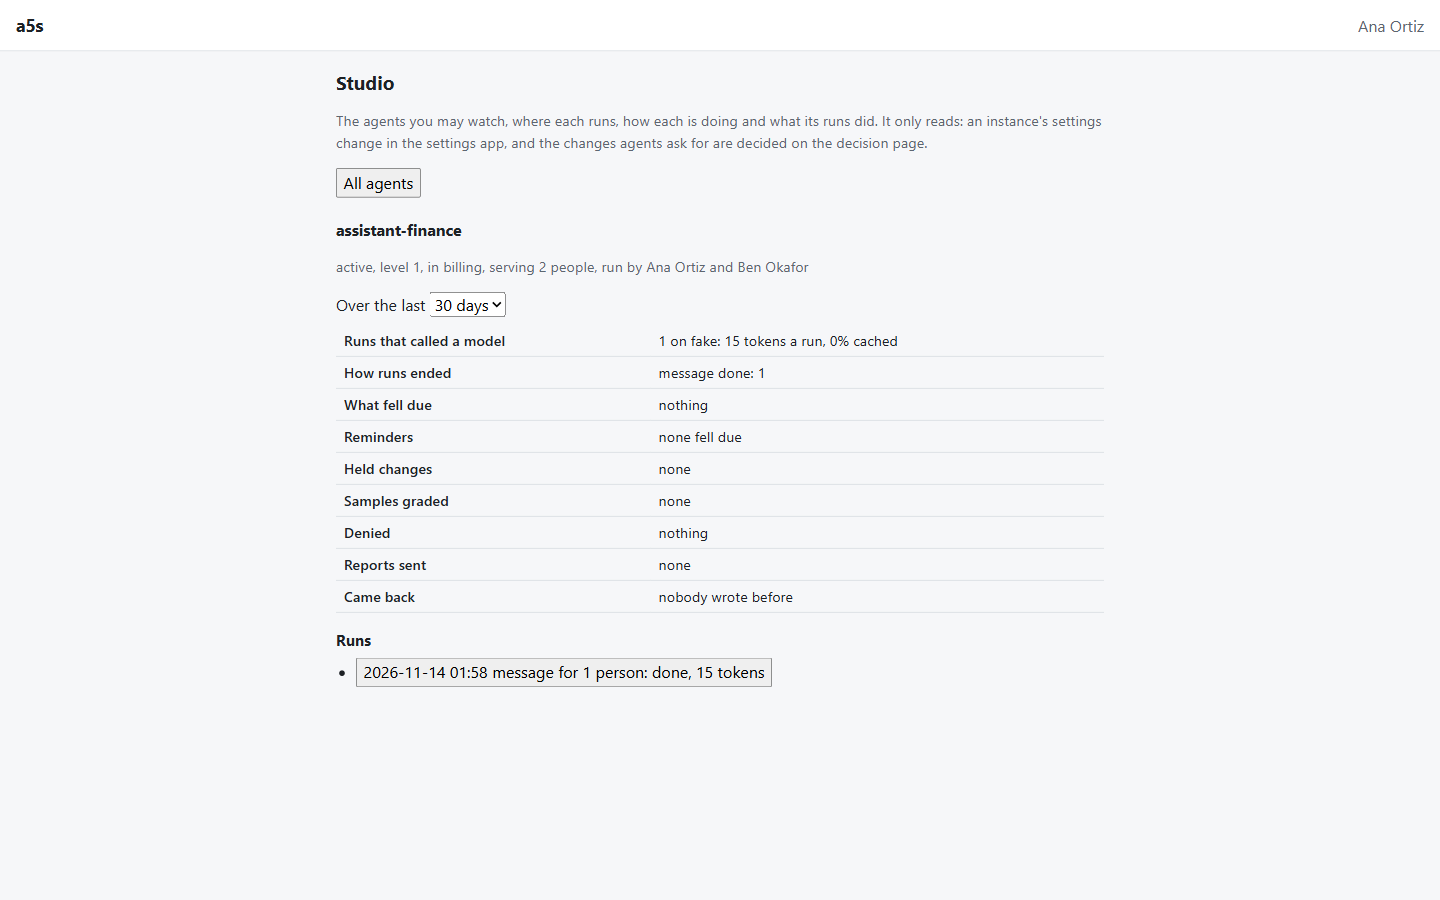
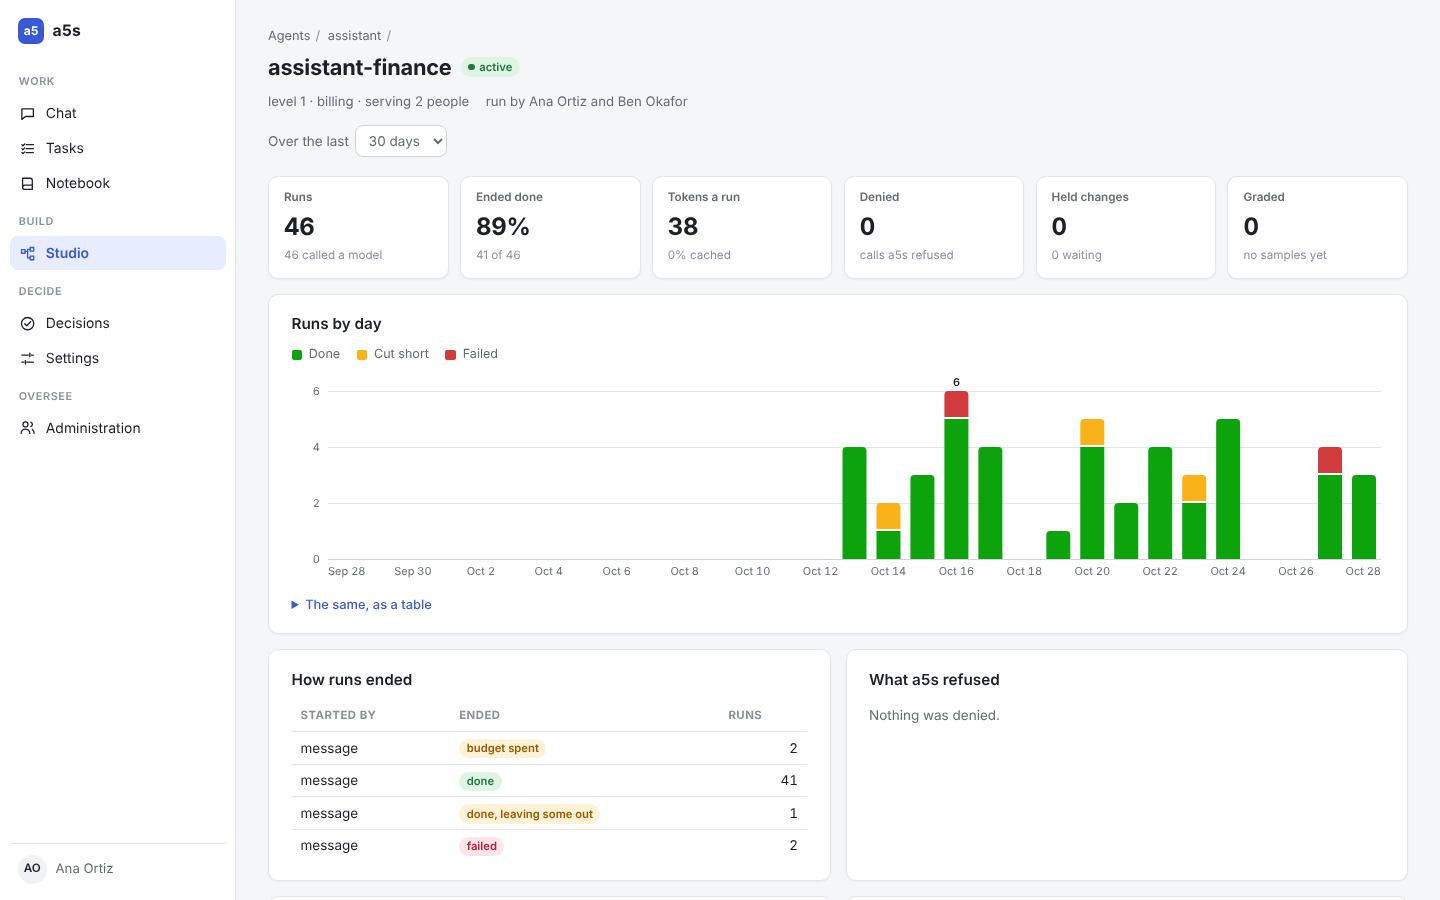
The docs' pictures of the studio, made from a5s running
docs/user-journey.md now shows the studio as it is: the agents, an agent's page
opening on its map, an instance's dashboard with its runs by day, and a run with
its path on its agent's map. A test makes the pictures, only when asked
(A5S_DOC_IMAGES=docs/images): two weeks and more of an instance's runs on the
core's days, a few ended otherwise than done, seen by the person who runs it,
with synthetic records alone.

Claude-Session: https://claude.ai/code/session_01VqgvTEpo6XkeHrM9ZvfGtg

diff --git a/tests/test_doc_images.py b/tests/test_doc_images.py
@@ -1,0 +1,69 @@
+"""The docs' pictures of the studio (docs/user-journey.md), made from a5s running: two weeks and
+more of an instance's runs, a few of them ended otherwise than done, and the studio's pages as
+the person who runs it sees them. Only when A5S_DOC_IMAGES names the folder to write them to:
+
+    A5S_DOC_IMAGES=docs/images uv run pytest tests/test_doc_images.py
+"""
+
+from __future__ import annotations
+
+import math
+import os
+from datetime import UTC, datetime
+
+import pytest
+
+from a5s import db
+from conftest import QUIET
+
+FOLDER = os.environ.get("A5S_DOC_IMAGES")
+pytestmark = pytest.mark.skipif(not FOLDER, reason="makes the docs' pictures only when asked")
+
+# How many runs on each day, back from the core's: a working pattern, quieter at weekends
+DAYS = [3, 4, 0, 0, 5, 3, 4, 2, 5, 1, 0, 4, 6, 3, 2, 4]
+OTHERWISE = ["failed", "budget spent", "done, leaving some out"]  # how a few ended instead
+
+
+def test_the_docs_pictures_of_the_studio(stack, approving, provider, browser):
+    stack.with_watcher()
+    back = []  # how many days back each run goes, in the order they ran
+    for days, runs in enumerate(DAYS):
+        for i in range(runs):
+            stack.model.reply(None, ("search_records", {"query": "invoice"}))
+            if i % 2 == 0:
+                stack.model.reply(None, ("get_record", {"key": "Q-1001"}))
+            stack.model.reply("Q-1001 is open: the invoice went to the wrong address.")
+            stack.say("What's open?", person="ben" if i % 3 == 2 else "ana")
+            back.append(days)
+    # Onto the core's days, which the tests keep at QUIET, by whole days, so each run's calls
+    # keep the time of day they had
+    shift = math.ceil((datetime.now(UTC) - QUIET).total_seconds() / 86400)
+    with db.transaction(stack.admin) as conn:
+        runs = [r["id"] for r in conn.execute("select id from runs order by opened_at")]
+        assert len(runs) == len(back)
+        for run, days in zip(runs, back, strict=True):
+            conn.execute("update runs set opened_at = opened_at - make_interval(days => %(d)s), "
+                         "closed_at = closed_at - make_interval(days => %(d)s) where id = %(run)s",
+                         {"d": shift + days, "run": run})
+        for run, ended in zip(runs[4::9], OTHERWISE * 3, strict=False):
+            conn.execute("update runs set outcome = %s where id = %s", (ended, run))
+
+    provider.person = "ana"
+    page = browser.new_page(viewport={"width": 1440, "height": 900}, timezone_id="Asia/Singapore")
+    page.emulate_media(color_scheme="light")
+    page.goto(f"{approving}/studio/")
+    page.wait_for_selector(".agent-card >> text=watcher", timeout=30000)
+    page.screenshot(path=f"{FOLDER}/a5s-studio-catalogue.png")
+
+    page.click(".agent-card a.agent-name:text-is('assistant')")
+    page.wait_for_selector(".agent-map .map-node >> text=change_due_date", timeout=30000)
+    page.screenshot(path=f"{FOLDER}/a5s-studio-agent.png")
+
+    page.click("table.grid-table a:has-text('assistant-finance')")
+    page.wait_for_selector(".runs-chart .day", timeout=30000)
+    page.screenshot(path=f"{FOLDER}/a5s-studio-dashboard.png")
+
+    page.click("table.runs-table a:has-text('Open') >> nth=0")  # the latest
+    page.wait_for_selector(".agent-map .map-count", timeout=30000)
+    assert page.locator(".agent-map .map-count").count() == 2  # it looked a question up, then read it
+    page.screenshot(path=f"{FOLDER}/a5s-studio-run.png")

diff --git a/docs/user-journey.md b/docs/user-journey.md
@@ -36,19 +36,31 @@ To answer a task that needs its owner, the person returns to their chat with the
 
 ## For the person who runs an agent
 
-The studio at `/studio/` is currently **read-only**: a catalogue, a dashboard for each instance, and a page for each run. It shows only what the signed-in person may see.
+The studio at `/studio/` is currently **read-only**: the agents, each agent's page with a map of how it's wired, a dashboard for each instance, and a page for each run with its path. Every page of a5s shares its sidebar, which lists only the pages the signed-in person may use, and the studio shows only what they may see. These pictures come from a5s running, with synthetic records: `A5S_DOC_IMAGES=docs/images uv run pytest tests/test_doc_images.py` makes them again.
 
-### The catalogue
+### The agents
 
-Each agent shows its release, model, autonomy levels, owners, tools and what those tools read or write, and the instances that run it. An instance shows its status, parts, audience and the people who run it.
+Each agent shows its release, model, autonomy levels and how many of its tools change records, write or only read, and the instances that run it, with each one's status, level, part and the people it serves.
 
-![The studio's catalogue of an agent, its tools and its instance](images/a5s-studio-catalogue.png)
+![The studio's agents, each with its tools by what they do and the instance that runs it](images/a5s-studio-catalogue.png)
+
+### An agent's page
+
+An agent's page opens on a map of how it's wired: what starts its runs, the agent, a5s's checks, which every call to a tool passes through, and its tools, coloured by what they do, changes first. Below the map are what it does and its instructions, its tools by kind, when it works, what it knows and may spend, and where it runs.
+
+![An agent's page, opening on the map of what starts it, a5s's checks and its tools](images/a5s-studio-agent.png)
 
 ### The instance's dashboard and runs
 
-An owner or another authorised person can choose an instance and period to see model usage, run outcomes, obligations, reminders, held changes, graded samples, denials and reports. Each run can show its trigger, records read and each tool call's policy decision. Conversation text is not shown.
+An owner or another authorised person can choose an instance and period to see its runs, how they ended and their tokens, its runs by day in their own time zone, split by how they ended, and its obligations, reminders, held changes, graded samples, denials and reports. Each day's figures show on hover or keyboard focus, and the same figures are in a table under the chart. Conversation text is not shown.
 
-![An instance's dashboard and recent run](images/a5s-studio-dashboard.png)
+![An instance's dashboard: its figures, and its runs by day, split by how they ended](images/a5s-studio-dashboard.png)
+
+### A run
+
+Each run shows what started it, whom it acted for, the records it read, and its path on its agent's map: each tool it called, how many times, and how many of those a5s refused, with what it didn't use faded. Its calls follow in order, each with the policy's decision.
+
+![A run's page, with its path on its agent's map](images/a5s-studio-run.png)
 
 The command line, Python client and core API expose the same operational model to code and CI, not just to the page. Operators' aggregate metrics can also go to the organisation's monitoring, without personal data.
 
